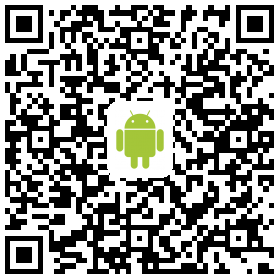
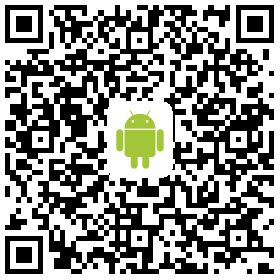
update

diff --git a/README.md b/README.md
@@ -7,7 +7,7 @@
 =====
 如果不想自己编译，可直接下载apk进行测试：
 
-[StarRTC_demo 安装包](https://docs.starrtc.com/download/StarRTC_demo.apk)，注意需要2部手机都安装才能测试一对一通话，或者扫描下面二维码安装。
+[StarRTC_demo 安装包](https://github.com/starrtc/android-demo/raw/master/StarRTC_demo.apk)，注意需要2部手机都安装才能测试一对一通话，或者扫描下面二维码安装。
 
 ![StarRTC_demo 安装包](android.png)
 
